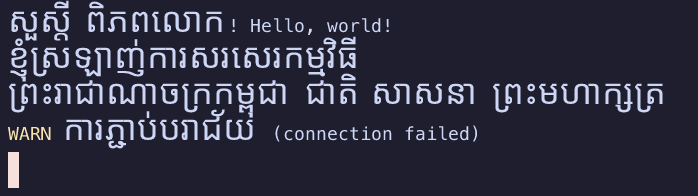
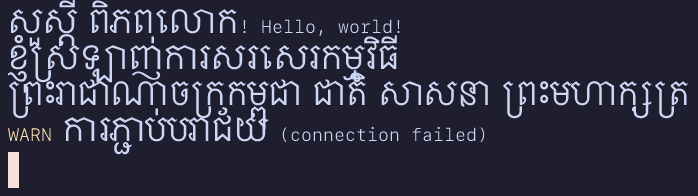
feat(kte-term): use the host's default fonts; size Khmer by height
kte-term now looks like the rest of the system and like the same text in
other terminals: SF Mono and Khmer Sangam MN on macOS, Cascadia Mono or
Consolas and Leelawadee UI or Khmer UI on Windows, and fontconfig's
monospace and Khmer choices on Linux. KTE_FONT and KTE_KHMER_FONT still
override.

Fonts differ in proportions (Khmer Sangam MN is 20% taller than Noto Sans
Khmer at the same width), so Legacy and Compact now size Khmer so that a
consonant's body is 0.93 x the Latin capital height (--khmer-size)
instead of by width. The Wide model keeps its cell-based sizing.

Changed region(s): [[0.0, 0.0, 0.9928, 0.7959]]

diff --git a/apps/kte-term/src/fonts.rs b/apps/kte-term/src/fonts.rs
@@ -13,56 +13,86 @@ pub struct FontSource {
     pub index: u32,
 }
 
-/// First existing file from a list of candidates. `KTE_FONT` / `KTE_KHMER_FONT`
-/// override the search.
-fn find(env: &str, candidates: &[&str]) -> Option<FontSource> {
-    let home = std::env::var("HOME").unwrap_or_default();
-    std::env::var(env)
-        .ok()
-        .into_iter()
-        .chain(candidates.iter().map(|c| c.replace('~', &home)))
+/// Fonts are the host's defaults, so kte-term looks like the rest of the
+/// system (and like the same text in VS Code or Terminal.app):
+///
+/// - macOS: SF Mono (Terminal.app's default) and Khmer Sangam MN (the font
+///   macOS itself uses for Khmer).
+/// - Windows: Cascadia Mono (Windows Terminal's default) or Consolas, and
+///   Leelawadee UI or Khmer UI (Windows' Khmer fallback).
+/// - Linux and other Unix: whatever fontconfig resolves `monospace` and
+///   Khmer (`:lang=km`) to, honoring the user's fontconfig settings.
+///
+/// `KTE_FONT` / `KTE_KHMER_FONT` override the choice.
+fn find(env: &str, fc_pattern: &str, candidates: &[&str]) -> Option<FontSource> {
+    if let Some(path) = std::env::var_os(env)
+        .map(PathBuf::from)
+        .filter(|p| p.is_file())
+    {
+        return Some(FontSource { path, index: 0 });
+    }
+    if cfg!(all(unix, not(target_vendor = "apple"))) {
+        if let Some(found) = fc_match(fc_pattern) {
+            return Some(found);
+        }
+    }
+    candidates
+        .iter()
         .map(PathBuf::from)
         .find(|p| p.is_file())
         .map(|path| FontSource { path, index: 0 })
 }
 
-/// Monospace font for Latin and other non-Khmer text.
+/// Asks fontconfig which font file it would use for `pattern`.
+fn fc_match(pattern: &str) -> Option<FontSource> {
+    let out = std::process::Command::new("fc-match")
+        .args(["--format=%{file}\n%{index}", pattern])
+        .output()
+        .ok()?;
+    let text = String::from_utf8(out.stdout).ok()?;
+    let mut lines = text.lines();
+    let path = PathBuf::from(lines.next()?);
+    let index = lines
+        .next()
+        .and_then(|i| i.trim().parse().ok())
+        .unwrap_or(0);
+    path.is_file().then_some(FontSource { path, index })
+}
+
+/// The host's default monospace font.
 pub fn find_latin() -> Option<FontSource> {
     find(
         "KTE_FONT",
+        "monospace",
         &[
             // macOS
-            "/System/Library/Fonts/Menlo.ttc",
             "/System/Library/Fonts/SFNSMono.ttf",
-            // Linux
-            "/usr/share/fonts/truetype/dejavu/DejaVuSansMono.ttf",
-            "/usr/share/fonts/TTF/DejaVuSansMono.ttf",
-            "/usr/share/fonts/truetype/noto/NotoSansMono-Regular.ttf",
-            "/usr/share/fonts/truetype/liberation/LiberationMono-Regular.ttf",
+            "/System/Library/Fonts/Menlo.ttc",
             // Windows
             "C:\\Windows\\Fonts\\CascadiaMono.ttf",
             "C:\\Windows\\Fonts\\consola.ttf",
+            // Unix without fontconfig
+            "/usr/share/fonts/truetype/dejavu/DejaVuSansMono.ttf",
+            "/usr/share/fonts/TTF/DejaVuSansMono.ttf",
         ],
     )
 }
 
-/// Khmer font. Noto Sans Khmer and Khmer OS fit the KTE Width Spec best
-/// (Research 0001 and 0002); the platform fonts are fallbacks.
+/// The host's default Khmer font.
 pub fn find_khmer() -> Option<FontSource> {
     find(
         "KTE_KHMER_FONT",
+        ":lang=km",
         &[
-            "~/Library/Fonts/NotoSansKhmer-Regular.ttf",
-            "/Library/Fonts/NotoSansKhmer-Regular.ttf",
-            "/usr/share/fonts/truetype/noto/NotoSansKhmer-Regular.ttf",
-            "/usr/share/fonts/noto/NotoSansKhmer-Regular.ttf",
-            "~/Library/Fonts/KhmerOSsys.ttf",
-            "/usr/share/fonts/truetype/khmeros/KhmerOSsys.ttf",
-            "/usr/share/fonts/truetype/khmeros/KhmerOS.ttf",
-            "C:\\Windows\\Fonts\\NotoSansKhmer-Regular.ttf",
-            "C:\\Windows\\Fonts\\KhmerUI.ttf",
+            // macOS
             "/System/Library/Fonts/Supplemental/Khmer Sangam MN.ttf",
+            "/System/Library/Fonts/Supplemental/Khmer MN.ttc",
+            // Windows
             "C:\\Windows\\Fonts\\LeelawUI.ttf",
+            "C:\\Windows\\Fonts\\KhmerUI.ttf",
+            // Unix without fontconfig
+            "/usr/share/fonts/truetype/noto/NotoSansKhmer-Regular.ttf",
+            "/usr/share/fonts/truetype/khmeros/KhmerOSsys.ttf",
         ],
     )
 }
@@ -126,6 +156,13 @@ impl Face {
             descender,
             line_gap,
         }
+    }
+
+    /// Height of the ink of `c`'s glyph, in font units.
+    pub fn ink_height(&self, c: char) -> Option<f32> {
+        let glyph = self.font.charmap().map_unicode(c)?;
+        let extents = self.font.outline_glyphs().get(glyph)?.extents().ok()?;
+        (extents.height > 0.0).then_some(extents.height)
     }
 
     pub fn has_char(&self, c: char) -> bool {

diff --git a/apps/kte-term/src/main.rs b/apps/kte-term/src/main.rs
@@ -31,8 +31,8 @@ USAGE:
 OPTIONS:
     --font-size <PX>      Latin font size in pixels [default: 15]
     --line-height <X>     Row height as a multiple of the font's line height [default: 1.7]
-    --khmer-fill <X>      Khmer size: how many of its cells a Khmer consonant spans,
-                          0.5-2.0 [default: 1.2 for legacy and compact, 1.0 for wide]
+    --khmer-size <X>      Height of Khmer consonants relative to Latin capitals [default: 0.93]
+                          (the Wide model sizes Khmer to its cells instead)
     --model <MODEL>       Khmer cell model [default: legacy]
                             legacy   match the system wcwidth() so today's shells and
                                      editors line up (glibc rules on Linux, Apple's on macOS)
@@ -76,7 +76,7 @@ fn parse_args() -> Result<Options, String> {
         sizing: Sizing {
             font_px: 15.0,
             line_height: 1.7,
-            khmer_fill: 0.0, // 0 = default for the model
+            khmer_size: 0.93,
         },
         model: CellModel::Legacy(LegacyWidths::native()),
         rows: 24,
@@ -102,7 +102,7 @@ fn parse_args() -> Result<Options, String> {
             }
             "--font-size" => o.sizing.font_px = num(value(&arg)?, &arg)?,
             "--line-height" => o.sizing.line_height = num(value(&arg)?, &arg)?,
-            "--khmer-fill" => o.sizing.khmer_fill = num(value(&arg)?, &arg)?.clamp(0.5, 2.0),
+            "--khmer-size" => o.sizing.khmer_size = num(value(&arg)?, &arg)?.clamp(0.5, 2.0),
             "--model" => {
                 o.model = match value(&arg)?.as_str() {
                     "wide" => CellModel::Wide,
@@ -123,12 +123,6 @@ fn parse_args() -> Result<Options, String> {
             "--wait-ms" => o.wait_ms = num(value(&arg)?, &arg)? as u64,
             other => return Err(format!("unknown option {other}; see --help")),
         }
-    }
-    if o.sizing.khmer_fill == 0.0 {
-        // Words may take the room they need (see render.rs), so Khmer can be
-        // drawn at a size that balances with Latin. Wide already gives a
-        // consonant 2 cells.
-        o.sizing.khmer_fill = if o.model == CellModel::Wide { 1.0 } else { 1.2 };
     }
     Ok(o)
 }

diff --git a/apps/kte-term/src/render.rs b/apps/kte-term/src/render.rs
@@ -212,8 +212,10 @@ pub struct Sizing {
     pub font_px: f32,
     /// Row height as a multiple of the Latin font's line height.
     pub line_height: f32,
-    /// How much of its cells a typical Khmer consonant fills (0.5–1.0).
-    pub khmer_fill: f32,
+    /// Height of a Khmer consonant's body relative to a Latin capital
+    /// (Legacy and Compact). Matching heights keeps Khmer and Latin balanced
+    /// whatever fonts the host provides.
+    pub khmer_size: f32,
 }
 
 impl Renderer {
@@ -251,9 +253,23 @@ impl Renderer {
         let extra = self.cell_height as f32 - (latin.ascender + latin.descender) * scale;
         self.baseline = (extra / 2.0 + latin.ascender * scale).round();
         self.latin_px = sizing.font_px;
-        self.khmer_px =
-            self.khmer
-                .font_size_for_cell(self.cell_width as f32, self.model, sizing.khmer_fill);
+        let latin_cap = self.latin.ink_height('H').map(|h| h * scale);
+        let khmer_ka = self.khmer_face.ink_height('ក');
+        self.khmer_px = match (self.model, latin_cap, khmer_ka) {
+            // The Wide model's layout depends on width: a consonant spans 2 cells.
+            (CellModel::Wide, ..) | (_, None, _) | (_, _, None) => {
+                let fill = if self.model == CellModel::Wide {
+                    1.0
+                } else {
+                    1.2
+                };
+                self.khmer
+                    .font_size_for_cell(self.cell_width as f32, self.model, fill)
+            }
+            (_, Some(cap_px), Some(ka_units)) => {
+                sizing.khmer_size * cap_px * self.khmer_face.units_per_em / ka_units
+            }
+        };
         self.glyphs.clear();
         self.shaped.clear();
     }

diff --git a/apps/kte-term/README.md b/apps/kte-term/README.md
@@ -54,7 +54,7 @@ bash needs no setting.
 --model <MODEL>       legacy (default), wide, compact, legacy-glibc, legacy-apple
 --font-size <PX>      Latin font size in pixels [default: 15]
 --line-height <X>     Row height as a multiple of the font's line height [default: 1.7]
---khmer-fill <X>      Khmer size in cells per consonant, 0.5-2.0 [default: 1.2 legacy/compact, 1.0 wide]
+--khmer-size <X>      Khmer consonant height relative to Latin capitals [default: 0.93]
 --rows <N>, --cols <N>
 --snapshot <FILE>     Render to a PNG instead of opening a window
 --text <TEXT>         Text for --snapshot
@@ -62,7 +62,21 @@ bash needs no setting.
 --type <TEXT>         With --snapshot: type TEXT into it (\n = Enter)
 ```
 
-Fonts are found automatically: Menlo / DejaVu Sans Mono / Cascadia Mono for Latin; Noto Sans Khmer, Khmer OS, Khmer UI, Khmer Sangam MN or Leelawadee UI for Khmer, in that order of preference. Override them with `KTE_FONT` and `KTE_KHMER_FONT`.
+### Fonts
+
+kte-term uses the **host's default fonts**, so it looks like the rest of your system:
+
+| OS | Latin | Khmer |
+|----|-------|-------|
+| macOS | SF Mono (Terminal.app's default) | Khmer Sangam MN (macOS's Khmer font) |
+| Windows | Cascadia Mono, or Consolas | Leelawadee UI, or Khmer UI |
+| Linux | fontconfig's `monospace` | fontconfig's choice for Khmer (`:lang=km`) |
+
+Khmer is scaled so its consonants match the height of Latin capitals in whichever fonts are used. To choose your own fonts, set `KTE_FONT` and `KTE_KHMER_FONT` to font file paths; for example Noto Sans Khmer fits the width spec closely:
+
+```sh
+KTE_KHMER_FONT=~/Library/Fonts/NotoSansKhmer-Regular.ttf kte-term
+```
 
 ## Keys
 

diff --git a/CHANGELOG.md b/CHANGELOG.md
@@ -26,7 +26,7 @@ adheres to [Semantic Versioning](https://semver.org/spec/v2.0.0.html).
 - `kte-term` MVP: window, shell on a pty, CPU rendering with HarfBuzz-shaped Khmer, keyboard and IME input, mouse selection, copy and paste (bracketed paste), `--snapshot` mode with live shell typing, macOS app bundle script.
 - `kte-terminal`: application cursor keys (mode 1) and bracketed paste (mode 2004); Legacy-model cell segmentation.
 - `kte-cell`: `fit_with_stretch`.
-- `kte-term`: Khmer words keep one natural size ("grid in logic, flow in pixels" layout) instead of being squeezed syllable by syllable; default Khmer size 1.2 cells per consonant in Legacy mode; glyphs stay visible under the block cursor; `--dump`.
+- `kte-term`: Khmer words keep one natural size ("grid in logic, flow in pixels" layout) instead of being squeezed syllable by syllable; host default fonts (SF Mono + Khmer Sangam MN on macOS, Cascadia Mono/Consolas + Leelawadee UI on Windows, fontconfig on Linux); Khmer sized to match Latin capital height (`--khmer-size`); glyphs stay visible under the block cursor; `--dump`.
 - Research 0003 (shell compatibility); ADR 0005 (kte-term architecture).
 - CI: kte-term snapshots on Linux, macOS and Windows, including typing Khmer into bash.
 - Research 0002: the spec table fits Linux default fonts (98–100%) and Windows' Leelawadee UI (80–86%); `Measure fonts` workflow.
